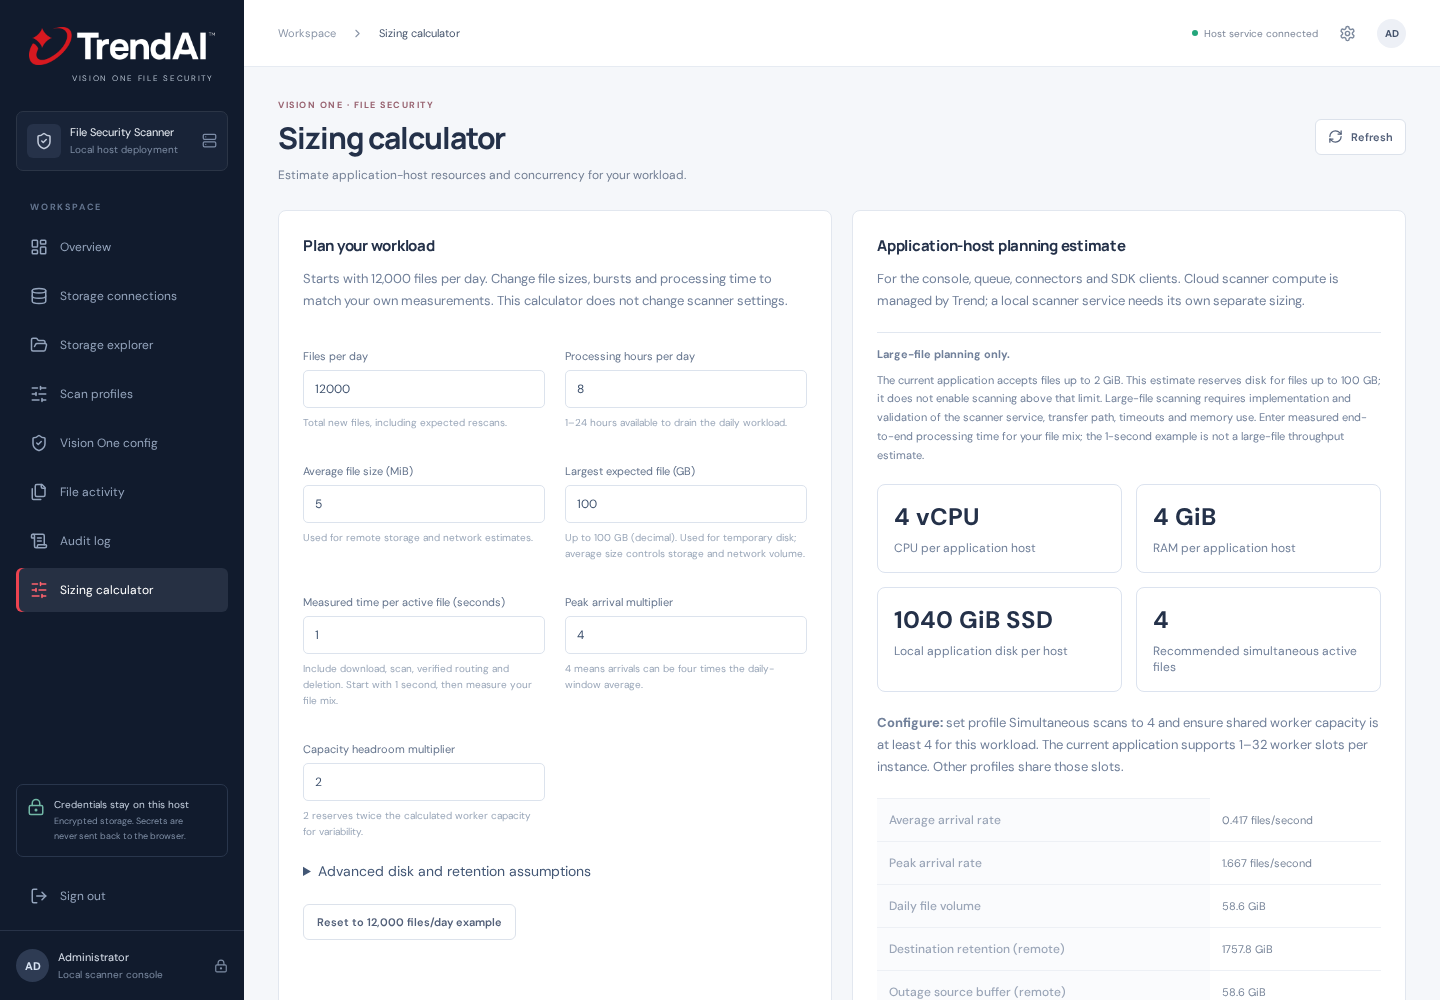
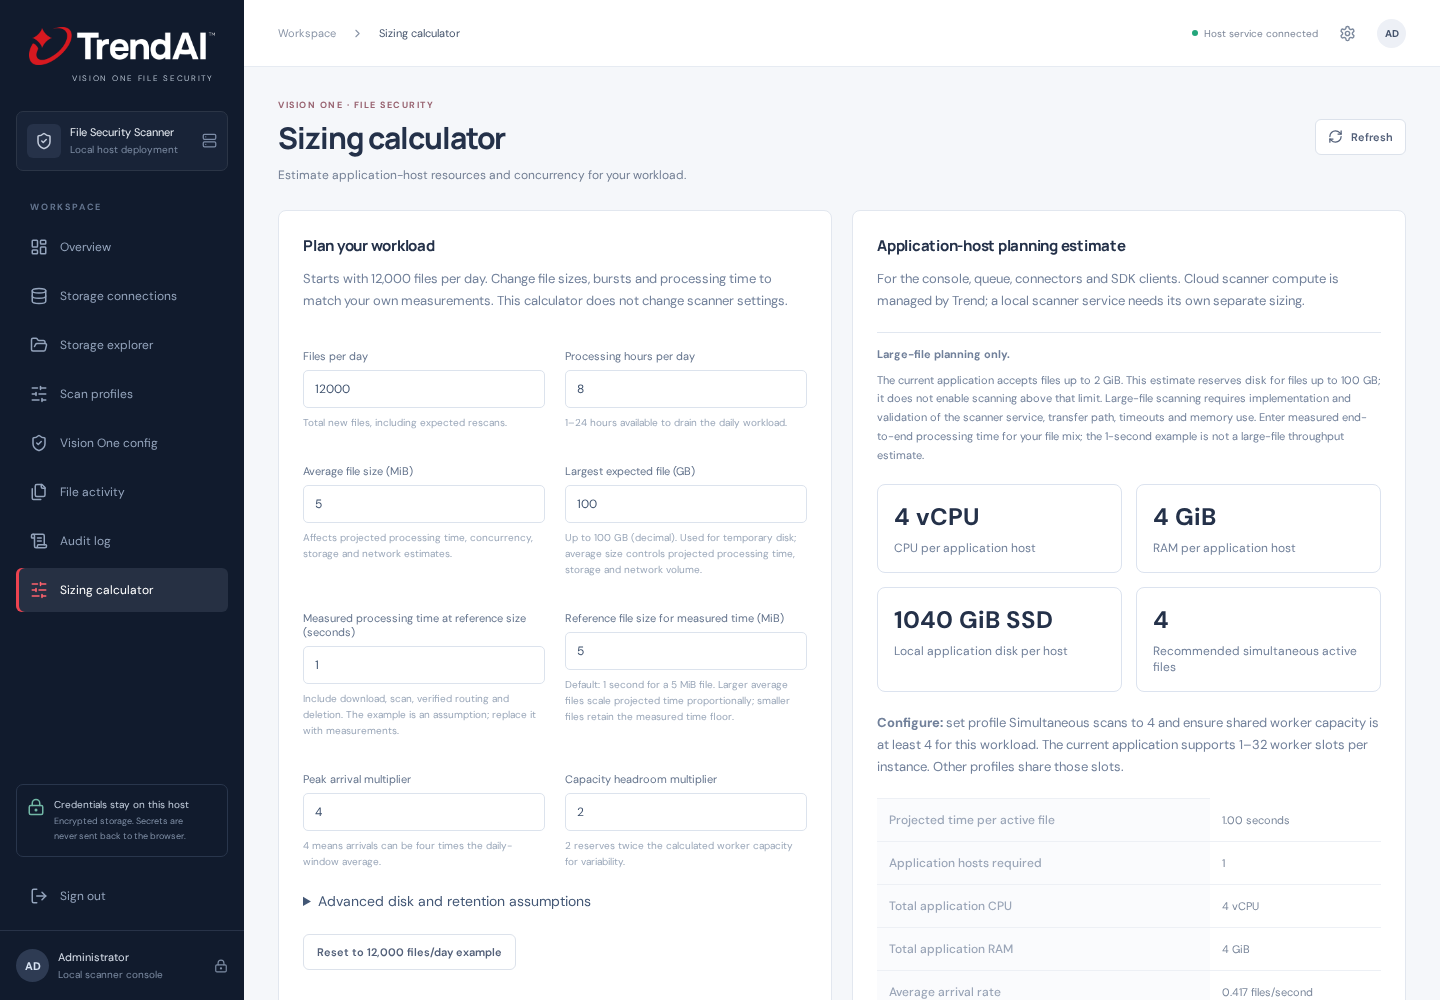
Make sizing respond to file size and distinguish Trend scanner benchmarks

diff --git a/web/src/sizing.tsx b/web/src/sizing.tsx
@@ -1,22 +1,23 @@
 import React,{useState} from 'react';
-export const sizingDefaults={files:12000,hours:8,averageMiB:5,maximumMiB:100e9/1048576,seconds:1,peak:4,headroom:2,historyDays:90,recordKiB:32,tempCopies:2,reserve:25,storageDays:30,outageHours:24};
+export const sizingDefaults={files:12000,hours:8,averageMiB:5,maximumMiB:100e9/1048576,seconds:1,referenceMiB:5,peak:4,headroom:2,historyDays:90,recordKiB:32,tempCopies:2,reserve:25,storageDays:30,outageHours:24};
 export function calculateSizing(x:typeof sizingDefaults){
  if(Object.values(x).some(v=>!Number.isFinite(v)||v<=0)||x.hours<1||x.hours>24||x.maximumMiB>100e9/1048576||x.averageMiB>x.maximumMiB)return null;
- const averageRate=x.files/(x.hours*3600),peakRate=averageRate*x.peak,slots=Math.max(1,Math.ceil(peakRate*x.seconds*x.headroom)),instances=Math.ceil(slots/32),perInstance=Math.ceil(slots/instances);
+ const effectiveSeconds=x.seconds*Math.max(1,x.averageMiB/x.referenceMiB);
+ const averageRate=x.files/(x.hours*3600),peakRate=averageRate*x.peak,slots=Math.max(1,Math.ceil(peakRate*effectiveSeconds*x.headroom)),instances=Math.ceil(slots/32),perInstance=Math.ceil(slots/instances);
  const cpu=Math.max(2,Math.ceil((1+perInstance*.5)/2)*2),memory=Math.max(4,Math.ceil((2+perInstance*.25)/2)*2);
  const historyGiB=x.files*x.historyDays*x.recordKiB/1048576,temporaryGiB=perInstance*x.maximumMiB*x.tempCopies/1024;
  const disk=Math.ceil((20+historyGiB*2+temporaryGiB)*(1+x.reserve/100)/10)*10;
- return {averageRate,peakRate,slots,instances,perInstance,cpu,memory,disk,historyGiB,temporaryGiB,dailyGiB:x.files*x.averageMiB/1024,retainedGiB:x.files*x.averageMiB*x.storageDays/1024,outageGiB:x.files*x.averageMiB*x.outageHours/24/1024,networkMbps:peakRate*x.averageMiB*8*5*1.048576};
+ return {effectiveSeconds,averageRate,peakRate,slots,instances,perInstance,cpu,memory,disk,historyGiB,temporaryGiB,dailyGiB:x.files*x.averageMiB/1024,retainedGiB:x.files*x.averageMiB*x.storageDays/1024,outageGiB:x.files*x.averageMiB*x.outageHours/24/1024,networkMbps:peakRate*x.averageMiB*8*5*1.048576};
 }
 export function SizingCalculator(){
  const [inputs,setInputs]=useState(sizingDefaults);const r=calculateSizing(inputs);
  const field=(key:keyof typeof sizingDefaults,label:string,help:string)=><label className="field" key={key}>{label}<input type="number" min="0.01" step="any" value={inputs[key]} onChange={e=>setInputs({...inputs,[key]:Number(e.target.value)})}/><small>{help}</small></label>;
  return <div className="sizing-layout"><section className="panel sizing-panel"><h2>Plan your workload</h2><p>Starts with 12,000 files per day. Change file sizes, bursts and processing time to match your own measurements. This calculator does not change scanner settings.</p><div className="profile-field-pair">
- {field('files','Files per day','Total new files, including expected rescans.')}{field('hours','Processing hours per day','1–24 hours available to drain the daily workload.')}{field('averageMiB','Average file size (MiB)','Used for remote storage and network estimates.')}<label className="field">Largest expected file (GB)<input type="number" min="0.000001" max="100" step="any" value={Number((inputs.maximumMiB*1048576/1e9).toPrecision(12))} onChange={e=>setInputs({...inputs,maximumMiB:Number(e.target.value)*1e9/1048576})}/><small>Up to 100 GB (decimal). Used for temporary disk; average size controls storage and network volume.</small></label>{field('seconds','Measured time per active file (seconds)','Include download, scan, verified routing and deletion. Start with 1 second, then measure your file mix.')}{field('peak','Peak arrival multiplier','4 means arrivals can be four times the daily-window average.')}{field('headroom','Capacity headroom multiplier','2 reserves twice the calculated worker capacity for variability.')}
+ {field('files','Files per day','Total new files, including expected rescans.')}{field('hours','Processing hours per day','1–24 hours available to drain the daily workload.')}{field('averageMiB','Average file size (MiB)','Affects projected processing time, concurrency, storage and network estimates.')}<label className="field">Largest expected file (GB)<input type="number" min="0.000001" max="100" step="any" value={Number((inputs.maximumMiB*1048576/1e9).toPrecision(12))} onChange={e=>setInputs({...inputs,maximumMiB:Number(e.target.value)*1e9/1048576})}/><small>Up to 100 GB (decimal). Used for temporary disk; average size controls projected processing time, storage and network volume.</small></label>{field('seconds','Measured processing time at reference size (seconds)','Include download, scan, verified routing and deletion. The example is an assumption; replace it with measurements.')}{field('referenceMiB','Reference file size for measured time (MiB)','Default: 1 second for a 5 MiB file. Larger average files scale projected time proportionally; smaller files retain the measured time floor.')}{field('peak','Peak arrival multiplier','4 means arrivals can be four times the daily-window average.')}{field('headroom','Capacity headroom multiplier','2 reserves twice the calculated worker capacity for variability.')}
  </div><details><summary>Advanced disk and retention assumptions</summary><div className="profile-field-pair">{field('historyDays','Local history retention (days)','Keep this aligned with your actual retention process; records are not deleted automatically by this calculator.')}{field('recordKiB','Estimated history per file (KiB)','32 KiB is a planning assumption for job, audit and response data. Verbose results may be larger.')}{field('tempCopies','Temporary copies per active file','2 allows space for captured input and transfer/staging work.')}{field('reserve','Extra disk allowance (%)','25% extra beyond estimated data use.')}{field('storageDays','Destination retention (days)','Remote destination capacity, separate from the application disk.')}{field('outageHours','Source outage buffer (hours)','Remote source space while processing is unavailable.')}</div></details><button className="button" onClick={()=>setInputs(sizingDefaults)}>Reset to 12,000 files/day example</button></section>
  <section className="panel sizing-panel" aria-live="polite"><h2>Application-host planning estimate</h2>{!r?<p role="alert">Enter positive numbers, processing hours no greater than 24, and a maximum file size at least the average and no greater than 100 GB (100 billion bytes).</p>:<><p>For the console, queue, connectors and SDK clients. Cloud scanner compute is managed by Trend; a local scanner service needs its own separate sizing.</p>{inputs.maximumMiB>2048&&<p className="profile-warning" role="note"><strong>Large-file planning only.</strong> The current application accepts files up to 2 GiB. This estimate reserves disk for files up to 100 GB; it does not enable scanning above that limit. Large-file scanning requires implementation and validation of the scanner service, transfer path, timeouts and memory use. Enter measured end-to-end processing time for your file mix; the 1-second example is not a large-file throughput estimate.</p>}<div className="sizing-metrics">{[[`${r.cpu} vCPU`,'CPU per application host'],[`${r.memory} GiB`,'RAM per application host'],[`${r.disk} GiB SSD`,'Local application disk per host'],[String(r.slots),'Recommended simultaneous active files']].map(([value,label])=><div key={label}><strong>{value}</strong><span>{label}</span></div>)}</div>
  <p><strong>Configure:</strong> set profile Simultaneous scans to {Math.min(r.slots,32)} and ensure shared worker capacity is at least {r.perInstance} for this workload. The current application supports 1–32 worker slots per instance. Other profiles share those slots.</p>{r.instances>1&&<p className="profile-warning">This estimate needs {r.instances} instances. Partition source folders and give each instance its own database/key volume; do not point competing instances at the same source or data directory.</p>}
- <table><tbody>{[['Average arrival rate',`${r.averageRate.toFixed(3)} files/second`],['Peak arrival rate',`${r.peakRate.toFixed(3)} files/second`],['Daily file volume',`${r.dailyGiB.toFixed(1)} GiB`],['Destination retention (remote)',`${r.retainedGiB.toFixed(1)} GiB`],['Outage source buffer (remote)',`${r.outageGiB.toFixed(1)} GiB`],['Aggregate network budget at peak',`${r.networkMbps.toFixed(1)} Mbps`]].map(([label,value])=><tr key={label}><th>{label}</th><td>{value}</td></tr>)}</tbody></table>
- <details><summary>Formulas and limits</summary><p>Slots = ceiling(files ÷ processing-window seconds × peak multiplier × measured active-file time × headroom). CPU is a conservative application allowance of one core plus half a core per slot, rounded to an even number with a two-core minimum. RAM is 2 GiB plus 0.25 GiB per slot, rounded to an even number with a 4 GiB minimum.</p><p>Local disk = (20 GiB system allowance + twice the estimated retained history + temporary copies × slots × maximum file size) × extra disk allowance, rounded up to 10 GiB. Each host conservatively budgets a full history copy. Remote file retention is excluded from local disk. Network assumes five full-file movements for source read, SDK traffic, upload and verification; actual SDK/network usage varies.</p><p>These are transparent planning assumptions, not vendor-certified requirements or a throughput guarantee. Validate with representative file sizes, archives, storage latency, scanner quotas, retries and a soak test. Account for backups, image/log growth, other workloads and a local scanner service separately. Keep useful disk-pressure alerts enabled.</p></details>
- <p>Reference: <a href="https://docs.trendmicro.com/en-us/documentation/article/trend-vision-one-what-is-file-security" target="_blank" rel="noreferrer">Trend File Security service</a> · <a href="https://docs.trendmicro.com/en-us/documentation/article/trend-vision-one-file-security-containerized-scanner" target="_blank" rel="noreferrer">Local scanner deployment</a>.</p></>}</section></div>
+ <table><tbody>{[['Projected time per active file',`${r.effectiveSeconds.toFixed(2)} seconds`],['Application hosts required',String(r.instances)],['Total application CPU',`${r.cpu*r.instances} vCPU`],['Total application RAM',`${r.memory*r.instances} GiB`],['Average arrival rate',`${r.averageRate.toFixed(3)} files/second`],['Peak arrival rate',`${r.peakRate.toFixed(3)} files/second`],['Daily file volume',`${r.dailyGiB.toFixed(1)} GiB`],['Destination retention (remote)',`${r.retainedGiB.toFixed(1)} GiB`],['Outage source buffer (remote)',`${r.outageGiB.toFixed(1)} GiB`],['Aggregate network budget at peak',`${r.networkMbps.toFixed(1)} Mbps`]].map(([label,value])=><tr key={label}><th>{label}</th><td>{value}</td></tr>)}</tbody></table>
+ <details><summary>Formulas and limits</summary><p>Slots = ceiling(files ÷ processing-window seconds × peak multiplier × projected active-file time × headroom). Projected time = measured reference time × max(1, average size ÷ reference size). This linear planning assumption is not a Trend benchmark and cannot predict archive expansion or content complexity. CPU is a conservative application allowance of one core plus half a core per slot, rounded to an even number with a two-core minimum. RAM is 2 GiB plus 0.25 GiB per slot, rounded to an even number with a 4 GiB minimum.</p><p>Local disk = (20 GiB system allowance + twice the estimated retained history + temporary copies × slots × maximum file size) × extra disk allowance, rounded up to 10 GiB. Each host conservatively budgets a full history copy. Remote file retention is excluded from local disk. Network assumes five full-file movements for source read, SDK traffic, upload and verification; actual SDK/network usage varies.</p><p>These are transparent planning assumptions, not vendor-certified requirements or a throughput guarantee. Validate with representative file sizes, archives, storage latency, scanner quotas, retries and a soak test. Account for backups, image/log growth, other workloads and a local scanner service separately. Keep useful disk-pressure alerts enabled.</p></details>
+ <details><summary>Trend published Containerized Scanner benchmark</summary><p>Trend reports a scanner allocation of 0.8 vCPU and 2 GiB RAM, plus a backend communicator and scan cache, each at 0.25 vCPU and 128 MiB RAM. These are benchmark allocations for the separate scanner service, not application-host requirements.</p><p>The published mixed-file benchmark covers 700 bytes–130 MB. Median scans/minute were 1928 for the tens-of-KB category, 858 for hundreds of KB, 364 for single-digit MB and 59 for tens of MB. These measurements do not validate GB-size files or a linear extrapolation to 100 GB. Local scanner capacity must be tested and budgeted separately; cloud scanner capacity and quotas are external to this host.</p><p><a href="https://docs.trendmicro.com/en-us/documentation/article/trend-vision-one-scaling-performance-cs" target="_blank" rel="noreferrer">Official scaling and performance guidance</a> · Reviewed 20 October 2026.</p></details><p>Reference: <a href="https://docs.trendmicro.com/en-us/documentation/article/trend-vision-one-what-is-file-security" target="_blank" rel="noreferrer">Trend File Security service</a> · <a href="https://docs.trendmicro.com/en-us/documentation/article/trend-vision-one-file-security-containerized-scanner" target="_blank" rel="noreferrer">Local scanner deployment</a>.</p></>}</section></div>
 }

diff --git a/web/e2e/sizing.spec.ts b/web/e2e/sizing.spec.ts
@@ -1,9 +1,9 @@
 import {test,expect} from '@playwright/test';
 import {calculateSizing,sizingDefaults} from '../src/sizing';
 test('12k sizing assumptions and invalid inputs',()=>{
- const r=calculateSizing(sizingDefaults)!;expect(r.slots).toBe(4);expect(r.cpu).toBe(4);expect(r.memory).toBe(4);expect(r.disk).toBe(1040);expect(calculateSizing({...sizingDefaults,maximumMiB:100e9/1048576+1})).toBeNull();expect(calculateSizing({...sizingDefaults,maximumMiB:2048})!.disk).toBeLessThan(r.disk);expect(calculateSizing({...sizingDefaults,hours:0})).toBeNull();expect(calculateSizing({...sizingDefaults,averageMiB:100000})).toBeNull();expect(calculateSizing({...sizingDefaults,files:1200000})!.instances).toBeGreaterThan(1);
+ const r=calculateSizing(sizingDefaults)!;expect(r.slots).toBe(4);const large=calculateSizing({...sizingDefaults,averageMiB:1000})!;expect(large.effectiveSeconds).toBe(200);expect(large.cpu*large.instances).toBeGreaterThan(r.cpu*r.instances);expect(large.memory*large.instances).toBeGreaterThan(r.memory*r.instances);expect(large.instances).toBeGreaterThan(1);expect(r.cpu).toBe(4);expect(r.memory).toBe(4);expect(r.disk).toBe(1040);expect(calculateSizing({...sizingDefaults,maximumMiB:100e9/1048576+1})).toBeNull();expect(calculateSizing({...sizingDefaults,maximumMiB:2048})!.disk).toBeLessThan(r.disk);expect(calculateSizing({...sizingDefaults,hours:0})).toBeNull();expect(calculateSizing({...sizingDefaults,averageMiB:100000})).toBeNull();expect(calculateSizing({...sizingDefaults,files:1200000})!.instances).toBeGreaterThan(1);
 });
 test('sizing menu and storage results use the current vocabulary',async({page})=>{
  await page.goto('/');if(await page.getByRole('button',{name:'Create administrator & continue'}).isVisible()){await page.getByLabel('Create administrator password').fill('test-only-password-2026');await page.getByLabel('Confirm password').fill('test-only-password-2026');await page.getByRole('button',{name:'Create administrator & continue'}).click()}else{await page.waitForTimeout(2100);await page.getByLabel('Administrator password').fill('test-only-password-2026');await page.getByRole('button',{name:'Sign in',exact:true}).click()}
- await expect(page.getByRole('heading',{name:'Security overview'})).toBeVisible();await expect(page.locator('.brand-product')).toHaveText('VISION ONE FILE SECURITY');await page.getByRole('button',{name:'Sizing calculator',exact:true}).click();await expect(page.getByLabel('Files per day',{exact:false})).toHaveValue('12000');await expect(page.getByText('4 vCPU',{exact:true})).toBeVisible();await expect(page.getByText('1040 GiB SSD',{exact:true})).toBeVisible();await expect(page.getByLabel('Largest expected file (GB)')).toHaveValue('100');await expect(page.getByText('Large-file planning only.',{exact:true})).toBeVisible();await page.getByRole('button',{name:'Storage explorer',exact:true}).click();await expect(page.getByRole('columnheader',{name:'SCAN RESULT',exact:true})).toBeVisible();await expect(page.getByRole('columnheader',{name:'RESULT TAGS',exact:true})).toBeVisible();await expect(page.getByText('COMPLETION MARKER',{exact:true})).toHaveCount(0);
+ await expect(page.getByRole('heading',{name:'Security overview'})).toBeVisible();await expect(page.locator('.brand-product')).toHaveText('VISION ONE FILE SECURITY');await page.getByRole('button',{name:'Sizing calculator',exact:true}).click();await expect(page.getByLabel('Files per day',{exact:false})).toHaveValue('12000');await expect(page.locator('.sizing-metrics').getByText('4 vCPU',{exact:true})).toBeVisible();await expect(page.getByText('1040 GiB SSD',{exact:true})).toBeVisible();await expect(page.getByLabel('Largest expected file (GB)')).toHaveValue('100');await expect(page.getByText('Large-file planning only.',{exact:true})).toBeVisible();await page.getByLabel('Average file size (MiB)',{exact:false}).fill('1000');await expect(page.getByText('200.00 seconds',{exact:true})).toBeVisible();await expect(page.getByText('18 vCPU',{exact:true})).toBeVisible();await page.getByRole('button',{name:'Storage explorer',exact:true}).click();await expect(page.getByRole('columnheader',{name:'SCAN RESULT',exact:true})).toBeVisible();await expect(page.getByRole('columnheader',{name:'RESULT TAGS',exact:true})).toBeVisible();await expect(page.getByText('COMPLETION MARKER',{exact:true})).toHaveCount(0);
 });

diff --git a/docs/user-guide.md b/docs/user-guide.md
@@ -189,12 +189,16 @@ An old source-read failure can become **SUPERSEDED** only if a later successful 
 
 ## Sizing for 12,000 files per day
 
-Choose **Sizing calculator**, directly after Audit log. It starts with 12,000 files/day, an 8-hour processing window, 5 MiB average / 100 GB maximum file size, a 4× arrival peak, one second per active file and 2× headroom. Under those assumptions, the application-host estimate is **4 vCPU, 4 GiB RAM, 1040 GiB SSD and 4 simultaneous active files**. The disk estimate includes 90 days of 32 KiB/job history, WAL/growth allowance, temporary files and free-space reserve. It does not include remote destination storage or a separately hosted local scan engine.
+Choose **Sizing calculator**, directly after Audit log. It starts with 12,000 files/day, an 8-hour processing window, 5 MiB average / 100 GB maximum file size, a 4× arrival peak, one second per reference 5 MiB file and 2× headroom. Under those assumptions, the application-host estimate is **4 vCPU, 4 GiB RAM, 1040 GiB SSD and 4 simultaneous active files**. The disk estimate includes 90 days of 32 KiB/job history, WAL/growth allowance, temporary files and free-space reserve. It does not include remote destination storage or a separately hosted local scan engine.
 
-**The 100 GB maximum is a planning input, not an enabled scanning capability.** GB means 1 billion bytes. The application currently accepts files up to 2 GiB. Larger files require implementation and validation before scanning can be supported. The maximum size reserves temporary disk; average size drives remote storage and network estimates. Replace the one-second example with measured download, scan, routing and verification time for representative files, especially large files.
+**The 100 GB maximum is a planning input, not an enabled scanning capability.** GB means 1 billion bytes. The application currently accepts files up to 2 GiB. Larger files require implementation and validation before scanning can be supported. The maximum size reserves temporary disk. Average size also scales projected processing time: reference seconds × max(1, average MiB ÷ reference MiB). This is an explicit linear planning assumption, not a vendor performance guarantee. CPU/RAM grow through concurrency; above 32 slots, additional hosts are required, so consult total CPU/RAM as well as per-host values. Replace the one-second example with measured download, scan, routing and verification time for representative files, especially large files.
 
 ![Sizing calculator with transparent planning inputs](images/sizing-calculator.png)
 
 Adjust the inputs to your real workload, especially measured time through download/scan/verified move, file sizes and retention. Open **Advanced disk and retention assumptions** and **Formulas and limits** to inspect the model. Calculator changes do not change profiles, delete history or configure hardware. Use the resulting concurrency as a starting point in **Scan profiles → Edit → Simultaneous scans** and ensure the shared engine worker cap is high enough. Profile settings above that cap do not create additional workers. Validate representative documents, large files/archives, retries and storage latency before treating this as a capacity commitment.
 
 These are application planning estimates, not vendor-certified requirements. Cloud scanner compute is hosted by Trend; local scanner compute must be sized separately using the scanner's own guidance. [File Security overview](https://docs.trendmicro.com/en-us/documentation/article/trend-vision-one-what-is-file-security) · [Containerized scanner](https://docs.trendmicro.com/en-us/documentation/article/trend-vision-one-file-security-containerized-scanner).
+
+### Vendor benchmark and calculator scope
+
+[Trend’s Containerized Scanner performance guidance](https://docs.trendmicro.com/en-us/documentation/article/trend-vision-one-scaling-performance-cs), reviewed 20 October 2026, documents separate scanner-service benchmark allocations and tested file ranges. The console includes the reference figures; they do not establish 100 GB support. These scanner-service allocations are separate from this application host. The calculator’s CPU/RAM allowances and linear time projection are application planning assumptions, not Trend requirements. Replace reference time/size with representative measurements; test archive expansion, scanner quotas, transfer bandwidth and large-file limits separately.
